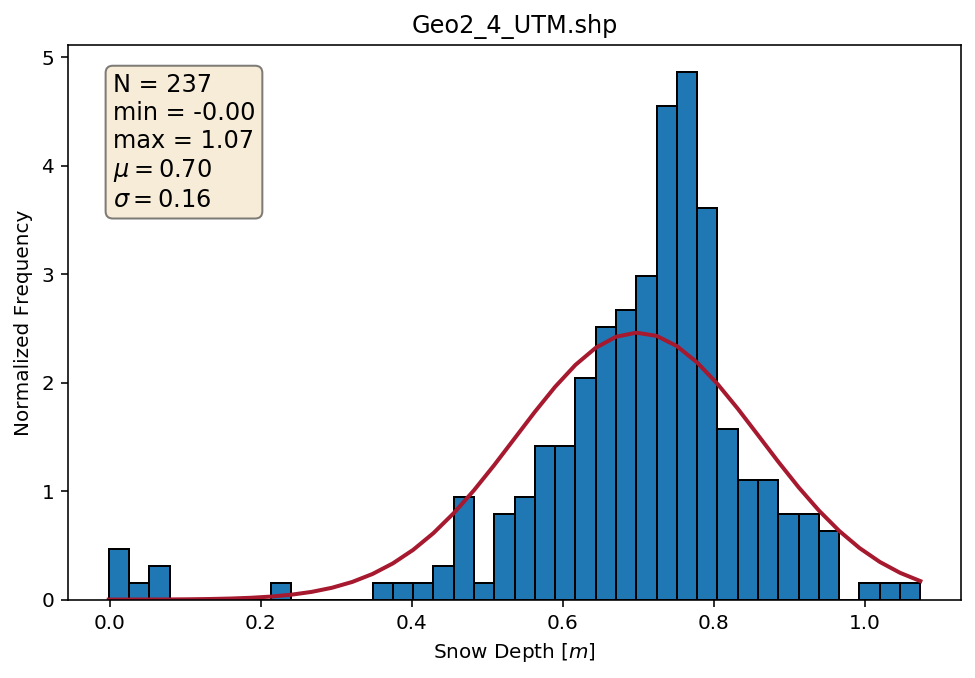
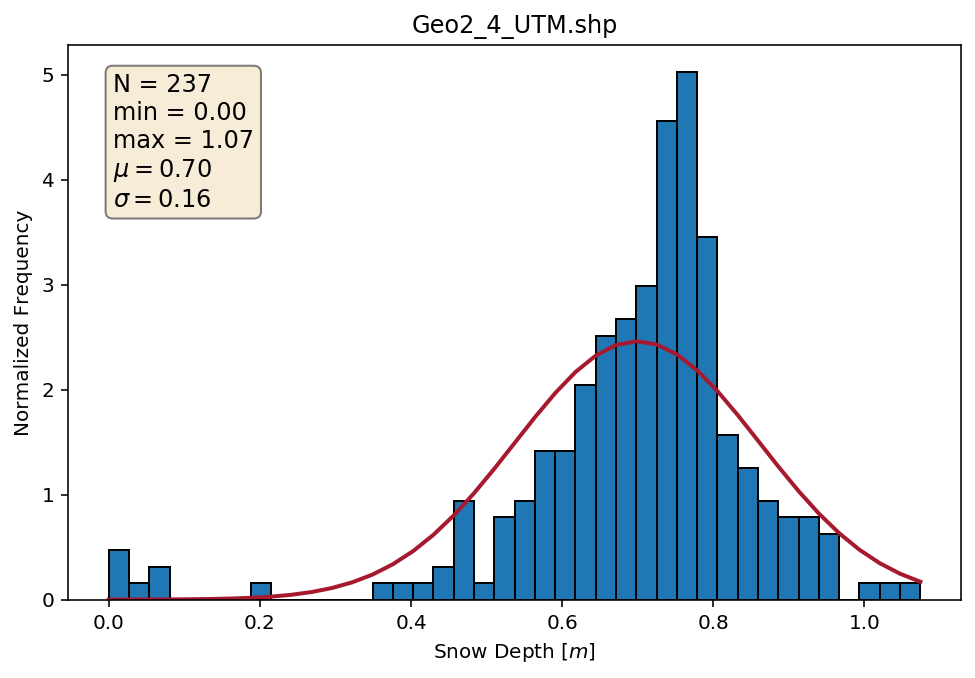
fix zeroing

diff --git a/magnaprobe.py b/magnaprobe.py
@@ -109,7 +109,7 @@ def drop_calibration_points(df, calibration_prefix, cal_lower, cal_upper):
     print("Rows left after culling by counter prefix: %s" % len(dfc))
 
     # find rows with depths near cal_lower or cal_upper
-    # this gets gnarly and should be abstracted away to a dict using a loop
+    # this gets GNARLY and should be abstracted away to a dict using a loop
     mp_bottom = dfc['Snow Depth m'] < cal_lower
     mp_top = dfc['Snow Depth m'] > cal_upper
     # check previous row
@@ -154,8 +154,17 @@ def drop_calibration_points(df, calibration_prefix, cal_lower, cal_upper):
         cal9 | cal10 | cal11 | cal12
     # drop rows matching calibration patterns
     df2 = dfc.drop(dfc[cal_patterns].index)
-    print("Rows left after culling by calibration patterns: %s" % len(df2))
+    print("Rows left ec culling by calibration patterns: %s" % len(df2))
     return df2
+
+
+def zero_out_near_zero_depths(df, tol):
+    """MagnaProbe values drift around and sometimes zero depths are recorded
+    as slightly negative or slightly above e.g. 0.01 m of snow. We will turn
+    depths within a tolerance to zero."""
+    df['Snow Depth m']
+    df['Snow Depth m'] = [x if x >= 0 else 0 for x in df['Snow Depth m']]
+    return df
 
 
 def create_geometry(df):
@@ -215,6 +224,7 @@ if __name__ == '__main__':
     df = trim_cols(df, ['timestamp', 'counter', 'Latitude',
                         'Longitude', 'Snow Depth m'])
     df = drop_calibration_points(df, 99, 0.02, 1.18)
+    df = zero_out_near_zero_depths(df, 0.01)
     print("Cleaned Data Preview:")
     print(df.head(5))
     geom_df = create_geometry(df)
